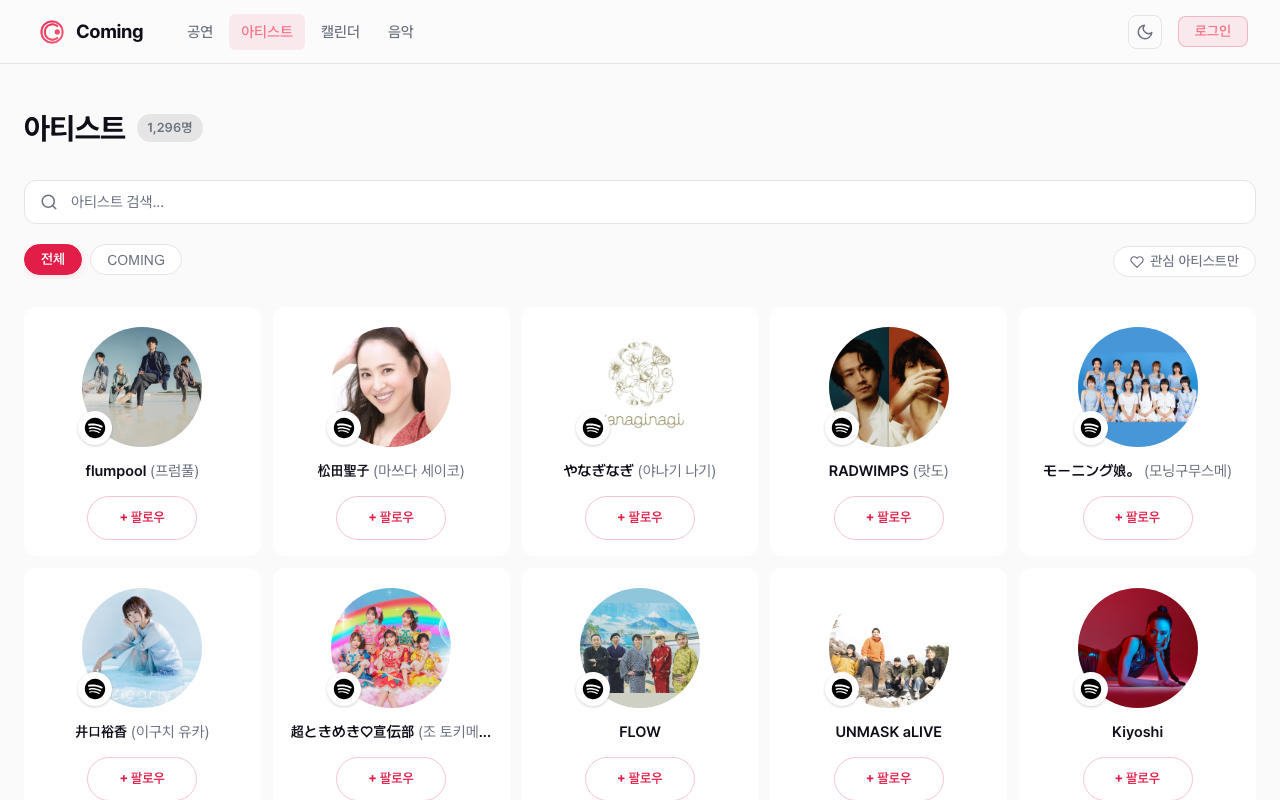
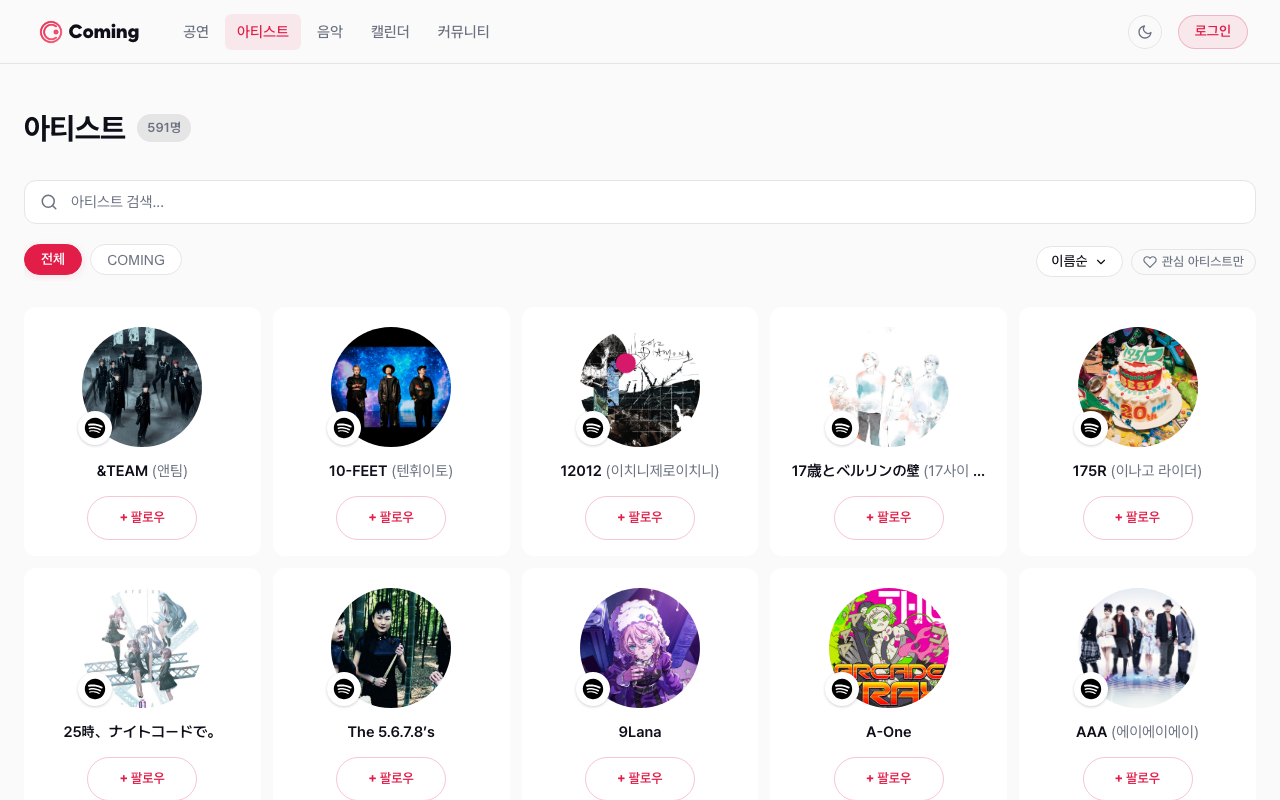
[docs] README 현행화 및 AI 협업 워크플로우 추가
- 주요 기능·페이지 구성·기술 스택·명령어·프로젝트 구조를 현재 코드 기준으로 갱신
  (커뮤니티·평점·다크 모드, Vitest, Node 22.12+ 등)
- 화면 소개 스크린샷 재촬영 및 홈 전체 화면, 음악 상세, 커뮤니티·게시글 상세 추가
- AI 협업 워크플로우 섹션 추가 (흐름, 에이전트 역할·병렬 기준, fe-review, 훅)

diff --git a/README.md b/README.md
@@ -28,13 +28,13 @@
 
 **Coming**은 Jpop 아티스트의 국내 내한 공연 정보를 한눈에 확인할 수 있는 웹 플랫폼입니다.
 
-공연 일정 탐색부터 아티스트 팔로우, 캘린더 뷰까지 — 흩어진 내한 공연 정보를 한 곳에서.
+공연 일정 탐색부터 아티스트 팔로우, 캘린더 뷰, 팬 커뮤니티까지 — 흩어진 내한 공연 정보를 한 곳에서.
 
 <br />
 
 <div align="center">
   <img src="docs/screenshots/home-desktop.png" alt="홈 페이지" width="100%" />
-  <p><sub>홈 — 인기 공연 및 예매 일정 한눈에 보기</sub></p>
+  <p><sub>홈 — 인기 공연 · 티켓팅 일정 · 다가오는 공연 · 새 앨범·싱글 · 관심 아티스트 공연</sub></p>
 </div>
 
 <table>
@@ -44,31 +44,49 @@
       <sub><b>공연 목록</b> — 내한 공연 검색 및 필터</sub>
     </td>
     <td align="center" width="50%">
+      <img src="docs/screenshots/concert-detail-desktop.png" alt="공연 상세" width="100%" />
+      <sub><b>공연 상세</b> — 공연 정보 · 티켓팅 · 가격 · 평점 · 예매처</sub>
+    </td>
+  </tr>
+  <tr>
+    <td align="center" width="50%">
       <img src="docs/screenshots/artists-desktop.png" alt="아티스트 목록" width="100%" />
       <sub><b>아티스트 목록</b> — 아티스트 탐색 및 팔로우</sub>
     </td>
-  </tr>
-  <tr>
     <td align="center" width="50%">
       <img src="docs/screenshots/artist-detail-desktop.png" alt="아티스트 상세" width="100%" />
-      <sub><b>아티스트 상세</b> — 다음 내한 D-day · 디스코그래피 · 소셜 링크</sub>
-    </td>
-    <td align="center" width="50%">
-      <img src="docs/screenshots/calendar-desktop.png" alt="캘린더" width="100%" />
-      <sub><b>캘린더</b> — 월별 공연 일정 뷰</sub>
+      <sub><b>아티스트 상세</b> — 팔로우 · Spotify · 소셜 링크 · 디스코그래피</sub>
     </td>
   </tr>
   <tr>
     <td align="center" width="50%">
-      <img src="docs/screenshots/concert-detail-desktop.png" alt="공연 상세" width="100%" />
-      <sub><b>공연 상세</b> — 공연 정보 · 장소 · 가격 · 예매처</sub>
+      <img src="docs/screenshots/releases-desktop.png" alt="음악 목록" width="100%" />
+      <sub><b>음악 목록</b> — 앨범·싱글 릴리즈 탐색</sub>
     </td>
     <td align="center" width="50%">
-      <img src="docs/screenshots/releases-desktop.png" alt="음반 목록" width="100%" />
-      <sub><b>음반</b> — 아티스트 음반 릴리즈 목록</sub>
+      <img src="docs/screenshots/release-detail-desktop.png" alt="음악 상세" width="100%" />
+      <sub><b>음악 상세</b> — 수록곡 · Spotify · 평점 · 관련 게시글</sub>
+    </td>
+  </tr>
+  <tr>
+    <td align="center" width="50%">
+      <img src="docs/screenshots/community-desktop.png" alt="커뮤니티" width="100%" />
+      <sub><b>커뮤니티</b> — 게시글 · 공지 · 인기글 · 많이 언급된 태그</sub>
+    </td>
+    <td align="center" width="50%">
+      <img src="docs/screenshots/post-detail-desktop.png" alt="게시글 상세" width="100%" />
+      <sub><b>게시글 상세</b> — 공연·아티스트·음악 멘션 카드 · 추천 · 신고</sub>
+    </td>
+  </tr>
+  <tr>
+    <td align="center" colspan="2">
+      <img src="docs/screenshots/calendar-desktop.png" alt="캘린더" width="50%" />
+      <br /><sub><b>캘린더</b> — 월별 공연·티켓팅 일정 뷰</sub>
     </td>
   </tr>
 </table>
+
+<sub>※ 커뮤니티·게시글 상세 화면과 음악 상세의 관련 게시글은 스크린샷용 샘플 데이터입니다.</sub>
 
 <br />
 
@@ -85,6 +103,10 @@
       <img src="docs/screenshots/concerts-mobile.png" alt="공연 목록 — 모바일" width="300" />
       <br /><sub><b>공연 목록</b></sub>
     </td>
+    <td align="center">
+      <img src="docs/screenshots/community-mobile.png" alt="커뮤니티 — 모바일" width="300" />
+      <br /><sub><b>커뮤니티</b></sub>
+    </td>
   </tr>
 </table>
 </details>
@@ -93,11 +115,14 @@
 
 ## 주요 기능
 
-- 🎤 **아티스트** — MusicBrainz 연동 아티스트 프로필, 관련 공연 및 음반 정보
-- 🎵 **공연** — KOPIS 기반 내한 공연 목록, 상세 정보 및 출연 아티스트
+- 🎤 **아티스트** — MusicBrainz 연동 아티스트 프로필, 소셜 링크, 관련 공연 및 음반 정보
+- 🎵 **공연** — KOPIS 기반 내한 공연 목록, 상세 정보·출연 아티스트·예매처, setlist.fm 셋리스트
 - 📅 **캘린더** — 월별 공연 일정을 한눈에 확인
-- 💿 **음반** — 아티스트 음반 릴리즈 정보 및 setlist.fm 연동
-- 🔔 **팔로우** — 관심 아티스트 팔로우 및 마이페이지 관리
+- 💿 **음악** — 아티스트 음반 릴리즈 정보, 수록곡 및 Spotify 바로가기
+- ⭐ **평점** — 공연·음반 별점 평가
+- 💬 **커뮤니티** — 게시글·댓글, 아티스트·공연 멘션 에디터, 공지사항, 신고
+- 🔔 **팔로우** — 관심 아티스트 팔로우 및 마이페이지 관리 (예정·다녀온 공연, 1:1 문의)
+- 🌙 **다크 모드** — 시스템 설정 연동 + 수동 전환
 - 🔐 **소셜 로그인** — Google · Kakao OAuth 2.0
 
 ---
@@ -110,12 +135,18 @@
 | 아티스트 목록 | `/artists` | Jpop 아티스트 목록 및 검색 |
 | 아티스트 상세 | `/artists/:id` | 프로필, 관련 공연·음반 |
 | 공연 목록 | `/concerts` | 내한 공연 목록 및 필터 |
-| 공연 상세 | `/concerts/:id` | 공연 정보, 장소, 출연진 |
-| 음반 목록 | `/releases` | 음반 릴리즈 목록 |
-| 음반 상세 | `/releases/:id` | 음반 상세 및 수록곡 |
+| 공연 상세 | `/concerts/:id` | 공연 정보, 장소, 출연진, 셋리스트, 평점 |
+| 음악 목록 | `/releases` | 음반 릴리즈 목록 |
+| 음악 상세 | `/releases/:id` | 음반 상세, 수록곡, 평점 |
 | 캘린더 | `/calendar` | 월별 공연 일정 뷰 |
-| 마이페이지 | `/me/*` | 관심 아티스트·공연 관리 _(로그인 필요)_ |
-| 관리자 | `/admin/*` | 공연·아티스트 데이터 관리 _(관리자 전용)_ |
+| 커뮤니티 | `/community` | 게시글 목록, 고정 공지, 인기글·태그 사이드바 |
+| 게시글 상세 | `/community/:id` | 게시글 본문, 댓글, 관련 글 |
+| 글쓰기·수정 | `/community/write`, `/community/:id/edit` | 게시글 에디터 _(로그인 필요)_ |
+| 공지 상세 | `/community/notices/:id` | 공지사항 |
+| 회원가입 | `/signup` | 소셜 로그인 후 닉네임 설정·약관 동의 |
+| 약관 | `/terms`, `/privacy` | 서비스 이용약관, 개인정보처리방침 |
+| 마이페이지 | `/me/*` | 관심 아티스트, 예정·다녀온 공연, 내 문의, 설정 _(로그인 필요)_ |
+| 관리자 | `/admin/*` | 공연·아티스트 데이터, 승인 대기·제외 공연, 문의, 신고, 공지, 약관 관리 _(관리자 전용)_ |
 
 ---
 
@@ -129,8 +160,10 @@
 | 클라이언트 상태 | Zustand v5 |
 | HTTP 통신 | Axios (인터셉터 중앙화, 자동 토큰 갱신) |
 | 스타일 | CSS Modules |
+| 에디터 | Tiptap v3 |
 | 날짜 | date-fns, react-datepicker |
-| 테스트 | Playwright |
+| 테스트 | Vitest, React Testing Library |
+| 분석 | Vercel Analytics, Speed Insights |
 
 ---
 
@@ -138,7 +171,7 @@
 
 ### 요구 사항
 
-- Node.js 20+
+- Node.js 22.12+ (Vitest 요구 사항)
 - npm 10+
 
 ### 설치
@@ -173,9 +206,11 @@ npm run dev
 
 ```bash
 npm run dev       # 개발 서버 시작
-npm run build     # 프로덕션 빌드
+npm run build     # 프로덕션 빌드 (prebuild에서 sitemap.xml 생성)
 npm run preview   # 빌드 결과 미리보기
 npm run lint      # ESLint 실행
+npm run test      # Vitest 1회 실행
+npm run test:watch  # Vitest watch 모드
 ```
 
 ---
@@ -192,14 +227,20 @@ src/
 │   ├── concert/        # 공연 카드, 아티스트 추가 모달
 │   ├── release/        # 음반 카드
 │   ├── calendar/       # 캘린더 그리드, 일별 공연 목록
+│   ├── post/           # 게시글 목록·본문, 댓글, 에디터(Tiptap), 사이드바, 신고 모달
+│   ├── rating/         # 공연·음반 평점
 │   ├── auth/           # 로그인 모달
 │   ├── layout/         # 헤더, 푸터, PrivateRoute, AdminRoute
 │   └── ui/             # 공통 UI (Badge, Pagination, EmptyState 등)
 ├── services/           # 도메인별 API 함수 (Axios 인스턴스 기반)
 ├── stores/             # Zustand 스토어 (auth, loginModal, theme)
+├── hooks/              # 공통 훅 (모달 접근성, 가로 스크롤, 페이지 메타)
 ├── constants/          # 라우트 경로 등 상수
-└── utils/
+├── utils/              # 날짜·Spotify·구조화 데이터 등 유틸
+└── test/               # 테스트 공통 setup
 ```
+
+테스트 파일은 대상 파일 옆에 `*.test.js(x)`로 둡니다.
 
 ---
 
@@ -210,6 +251,67 @@ src/
 - **Refresh Token**: HttpOnly Cookie로 자동 전송
 - **자동 갱신**: 401 응답 시 Axios 인터셉터에서 자동으로 토큰 갱신
 - **비로그인 보호**: 보호 기능 접근 시 페이지 이동 없이 로그인 모달 표시
+
+---
+
+## AI 협업 워크플로우
+
+Claude Code 에이전트·스킬·훅으로 이슈부터 PR까지 진행합니다. 프로젝트 규칙은 [`CLAUDE.md`](CLAUDE.md)에 모여 있고, 아래 도구들이 그 규칙을 역할별로 나눠 강제합니다.
+
+### 흐름
+
+```
+/issue → /plan-issue → (web-design) → 구현 → write-tests → npm run test → /fe-review → /simplify → /commit → /pr
+```
+
+| 단계 | 도구 | 하는 일 |
+|------|------|--------|
+| 이슈·브랜치 | `/issue` | GitHub 이슈 생성 + `{type}/#{번호}-...` 브랜치 체크아웃 |
+| 계획 | `/plan-issue` | 이슈 체크리스트를 코드 현황과 대조하고, 남은 작업을 커밋 단위로 순서화 (API 함수 → 상태 → 컴포넌트, `ui`/`feat` 분리) |
+| 디자인 검토 | `web-design` 에이전트 | 화면·UX 판단이 필요한 작업만 구현 전에 검토 — 디자인 토큰·기존 `ui/` 컴포넌트 기준 구현안 제시 |
+| 구현 | 메인 세션 | 페이지·컴포넌트 단위 구현 |
+| 테스트 작성 | `write-tests` 에이전트 | 유틸·훅·스토어·컴포넌트 옆에 `*.test.js(x)` 작성 (Vitest + React Testing Library) |
+| 테스트 실행 | `npm run test` | 전체 테스트 실행 — 통과해야 리뷰 단계로 진행 |
+| 리뷰 | `/fe-review` | 프로젝트 규칙 위반 검토 — 🔴 critical 0건이어야 커밋 |
+| 정리 | `/simplify` | 변경 코드의 중복·불필요한 복잡도 정리 |
+| 커밋·PR | `/commit`, `/pr` | 컨벤션(`[{type}] 요약`)에 맞춘 커밋·PR 작성 |
+
+`fe-review` 스킬과 두 에이전트는 이 레포의 [`.claude/`](.claude/)에 포함돼 있습니다. `/issue`, `/plan-issue`, `/commit`, `/pr`은 작성자의 전역 Claude Code 스킬이고 `/simplify`는 Claude Code 기본 스킬이라 레포에는 없습니다.
+
+### 에이전트 역할 분리와 병렬 실행
+
+| 에이전트 | 역할 | 수정 범위 |
+|---------|------|----------|
+| [`write-tests`](.claude/agents/write-tests.md) | 테스트 작성, 테스트 컨벤션(파일 위치·쿼리 우선순위·API 모킹 방식)의 기준 문서 | `*.test.js(x)`, `src/test/` — 테스트를 통과시키려고 구현 코드를 고치지 않고, 버그로 보이면 보고만 한다 |
+| [`web-design`](.claude/agents/web-design.md) | 디자인·UX 검토, 신규 기능의 FE 구현 범위 검토 | 코드 대신 진단·구현안(토큰·CSS Modules 코드·breakpoint별 레이아웃)을 제시 |
+
+`write-tests`는 테스트 대상이 서로 독립적일 때 병렬로 실행합니다.
+
+- 서로 import하지 않는 대상이 **3개 이상**이면 단일 응답에서 병렬 호출하고, 1~2개면 순차 작성한다 (에이전트 cold start 비용이 시간 이득보다 크기 때문)
+- 호출 전에 `vite.config.js`의 `test` 블록과 기존 테스트 예제 1개를 프롬프트에 넣어 에이전트의 중복 탐색을 줄인다
+- 스토어·훅 → 이를 쓰는 컴포넌트 순서는 유지한다 (컴포넌트 테스트가 스토어·훅 계약을 전제)
+
+스타일·반응형 전용 변경(`ui` 커밋)은 테스트 대상이 아니며 브라우저에서 직접 확인합니다.
+
+### 코드 리뷰 (`/fe-review`)
+
+[체크리스트](.claude/skills/fe-review/references/fe-checklist.md)는 test·lint 자동 검사와 diff 기반 수동 검토로 나뉩니다. 이번 변경에서 추가·수정된 라인만 판정하고, 기존 코드의 위반·lint 에러는 결과에서 제외합니다.
+
+- **반응형**: breakpoint는 `767px`·`900px`·`1279px`만 허용 — `480px` 등 비표준 값은 critical
+- **스타일**: `Xxx.jsx` + `Xxx.module.css` 페어링, 전역 CSS import 금지, 색상은 `index.css` 토큰 사용 (리터럴은 다크 모드에서 전환되지 않음)
+- **목 데이터**: `MOCK_*_MAP` + `// TODO: API 연동 후 제거` 표기, API 연동 후 잔존 여부
+- **인증·권한**: 비로그인 보호 기능은 페이지 이동이 아닌 로그인 모달(현재 URL 유지), 관리자 경로는 `AdminRoute`, 토큰을 Web Storage에 저장 금지
+- **API·상태**: `axios` 직접 호출 금지(`services/api.js` 인스턴스 경유), 서버 상태는 React Query, 경로는 `ROUTES` 상수
+- **접근성**: 클릭 가능한 `div`, `alt`·`aria-label` 누락, 모달 포커스 트랩(`useModalA11y`), 터치 영역 44px
+
+체크리스트는 도입 시 의도적인 위반(`480px`, redirect 누락)을 심은 diff로 검출 여부를 확인한 뒤 확정했습니다.
+
+### 훅 ([`.claude/settings.json`](.claude/settings.json))
+
+| 시점 | 대상 | 동작 |
+|------|------|------|
+| PreToolUse | Write·Edit·MultiEdit | 파일명이 `.env`·`.env.*`이거나 `credentials`·`.secret`을 포함하면 수정 차단 (`.env.example`은 커밋 대상 템플릿이라 허용) |
+| Stop | 레포 루트 | Playwright로 화면 확인 중 남은 임시 스크린샷(`*.png`·`*.jpg`) 정리 |
 
 ---
 
